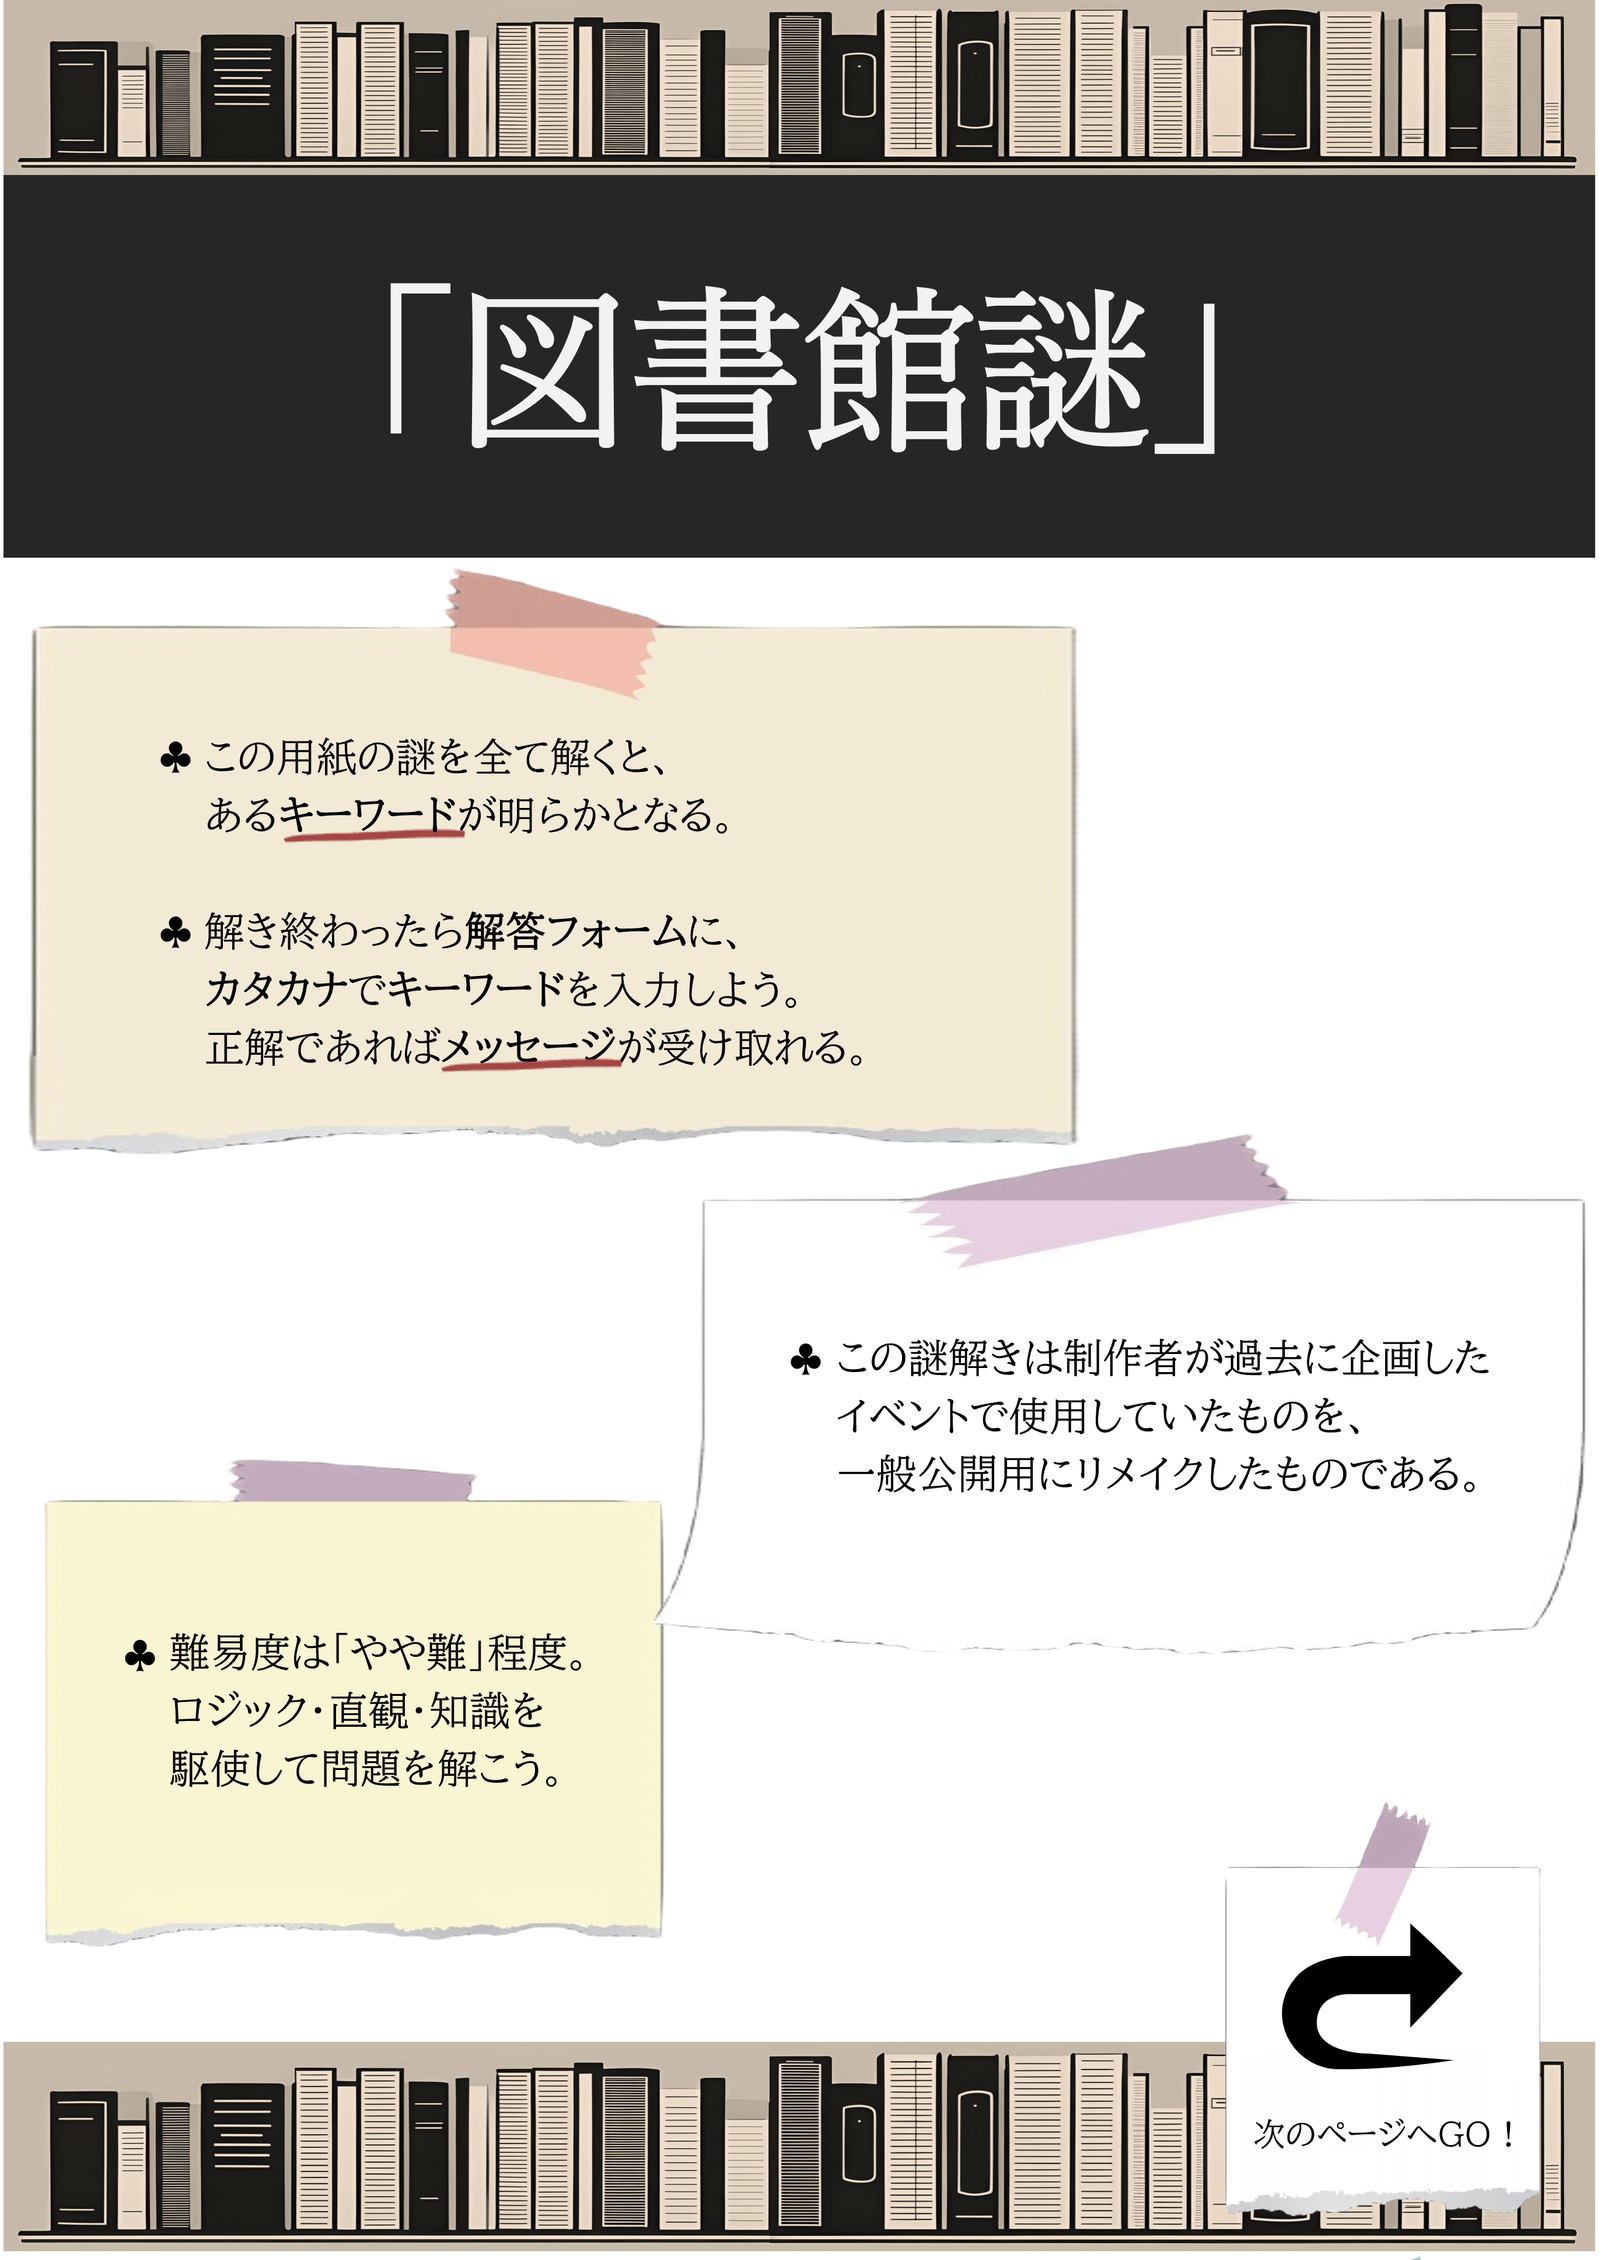
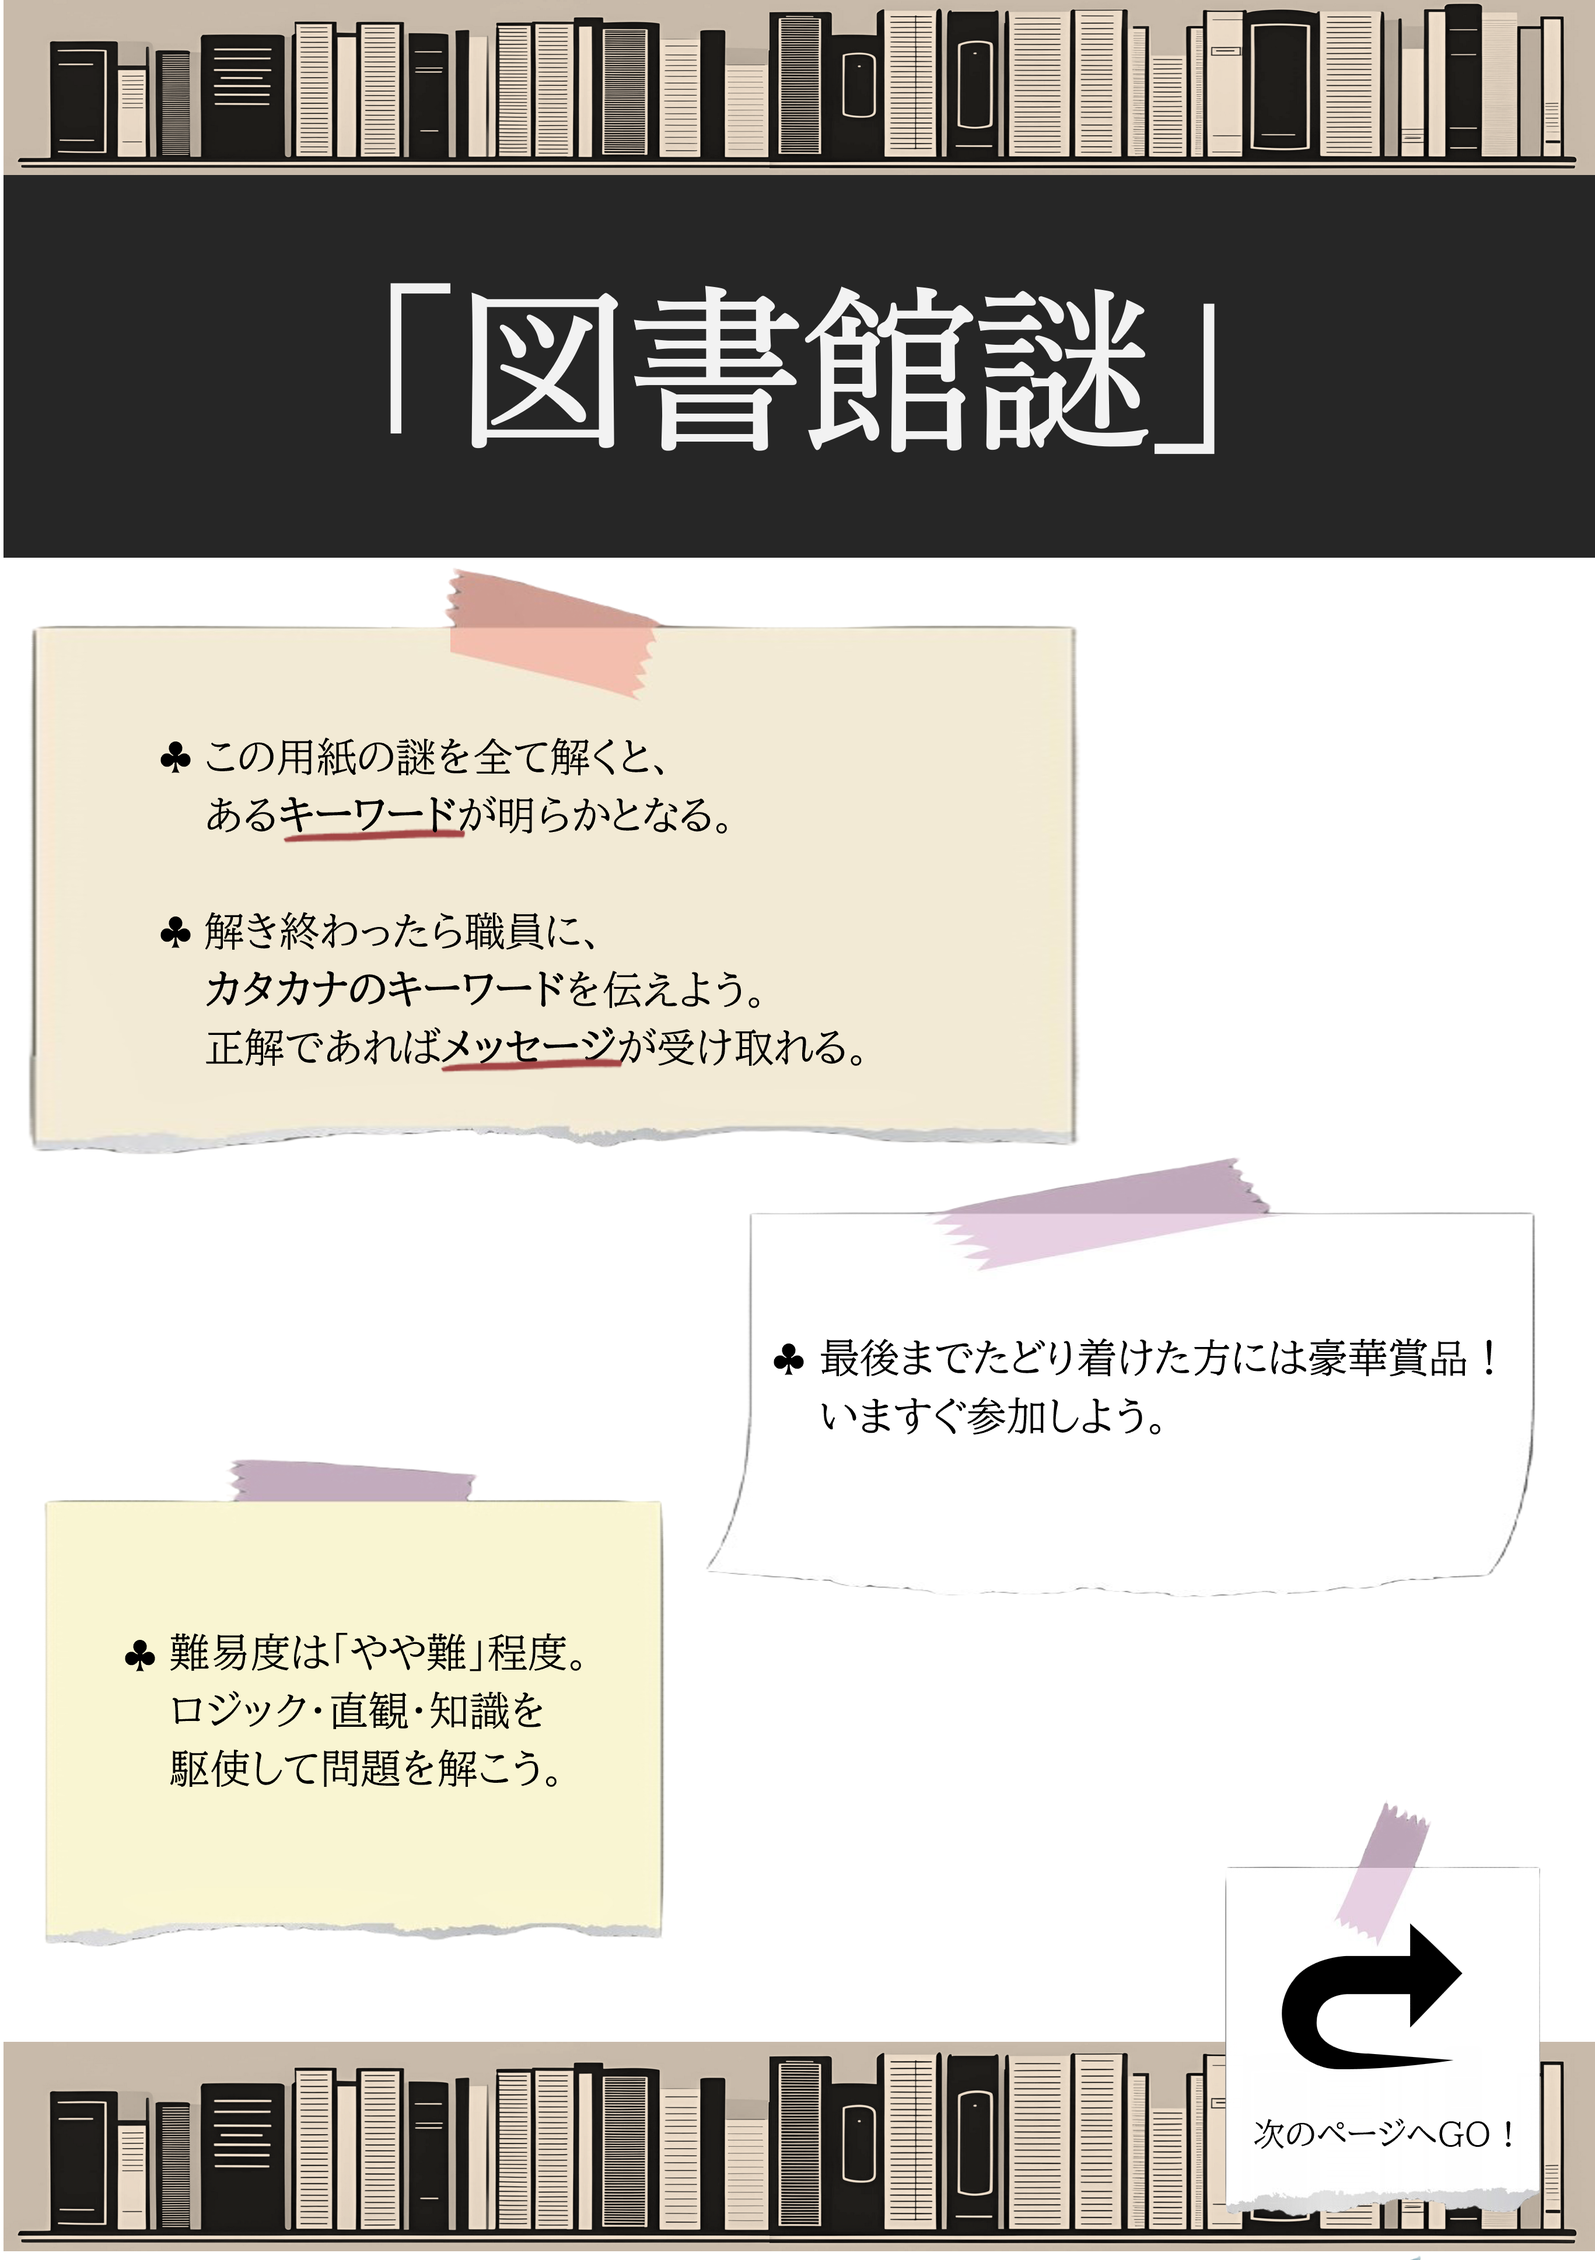
Update home, count_down, libnazo_2024

diff --git a/libnazo_2024/index.html b/libnazo_2024/index.html
@@ -4,7 +4,7 @@
 <head>
     <meta charset="UTF-8" />
     <meta name="viewport" content="width=device-width, initial-scale=1.0" />
-    <title>TomNazo "Lib24"</title>
+    <title>LibNazo 2024</title>
     <style>
         * {
             box-sizing: border-box;
@@ -36,7 +36,6 @@
         .quiz-img {
             width: 100%;
             max-width: 640px;
-            /* ← 以前より少し大きめに */
             height: auto;
             border: 1px solid #ccc;
             border-radius: 10px;
@@ -133,10 +132,16 @@
 </head>
 
 <body>
+    <div id="initial-question" class="section-box">
+        <img src="title.png" alt="タイトル画像" class="quiz-img">
+        <p>あなたは図書館で謎解きの用紙を見つけた。</p>
+        <p>「豪華賞品...!これは解かねば！」</p>
+    </div>
 
     <div id="initial-question" class="section-box">
         <!-- クイズ画像を追加 -->
         <img src="quiz_1.png" alt="クイズ1" class="quiz-img">
+        <!-- 2つ目のクイズ画像を追加 -->
         <img src="quiz_2.png" alt="クイズ2" class="quiz-img">
 
         <p>キーワードをカタカナで入力せよ</p>
@@ -147,6 +152,7 @@
         <div id="incorrect-initial-result" class="incorrect-result" style="display: none;">残念！不正解です！</div>
         <div id="initial-answer-result" class="correct-result" style="display: none;">
             <h3>正解です！</h3>
+            <p>職員に答えを告げると、追加で用紙を手渡された。</p>
         </div>
     </div>
 
@@ -161,6 +167,13 @@
         <div id="incorrect-final-result" class="incorrect-result" style="display: none;">残念！不正解です！</div>
         <div id="final-answer-result" class="correct-result" style="display: none;">
             <h3>正解です！</h3>
+            <p>「おめでとうございます！見事謎を解き明かしましたね！<br>お疲れさまでした！」</p>
+            <p>...豪華賞品は？</p>
+            <p>「ここに置いてある本を<br>いつでも借りることができる権利を贈呈します！」
+            <p>...それは確かに豪華賞品だ。<br>けどもともと本は無料で借りられるじゃないか！</p>
+            <br>
+            <hr>
+            <br>
             <p>ここまで謎を解いてくれてありがとうございます。</p>
             <p>制作者にぜひ感想をお寄せください。</p>
         </div>

diff --git a/index.html b/index.html
@@ -14,13 +14,14 @@
                 <h2>PrefectureGuessr</h2>
                 <p>県を学ぼう</p>
             </a>
-            <a class="card" href="tomnazo_lib24/index.html">
-                <h2>TomNazo "Lib24"</h2>
+            <a class="card" href="libnazo_2024/index.html">
+                <h2>図書館謎</h2>
                 <p>過去に企画した謎解きを<br>一般公開用にリメイク</p>
             </a>
             <a class="card" href="count_down/index.html">
-                <h2>修論提出カウントダウン</h2>
-                <p>焦ろう</p>
+                <h2>カウントダウン</h2>
+                <p>焦りたい人用</p>
+                <p>URLパラメータでカスタマイズも可能</p>
             </a>
         </section>
     </main>
